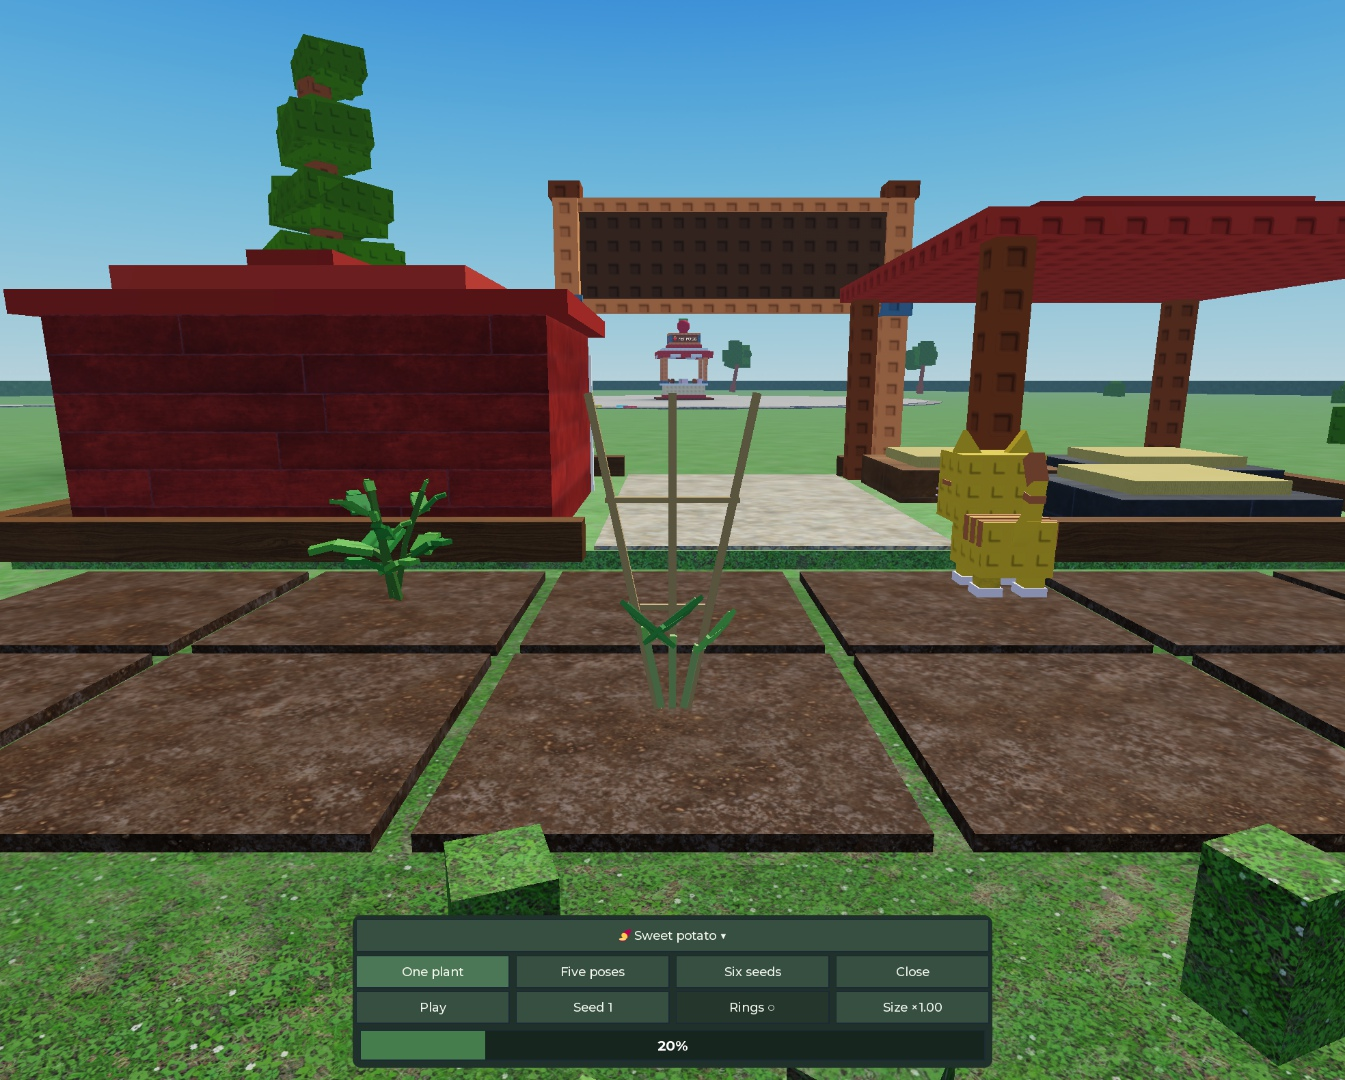
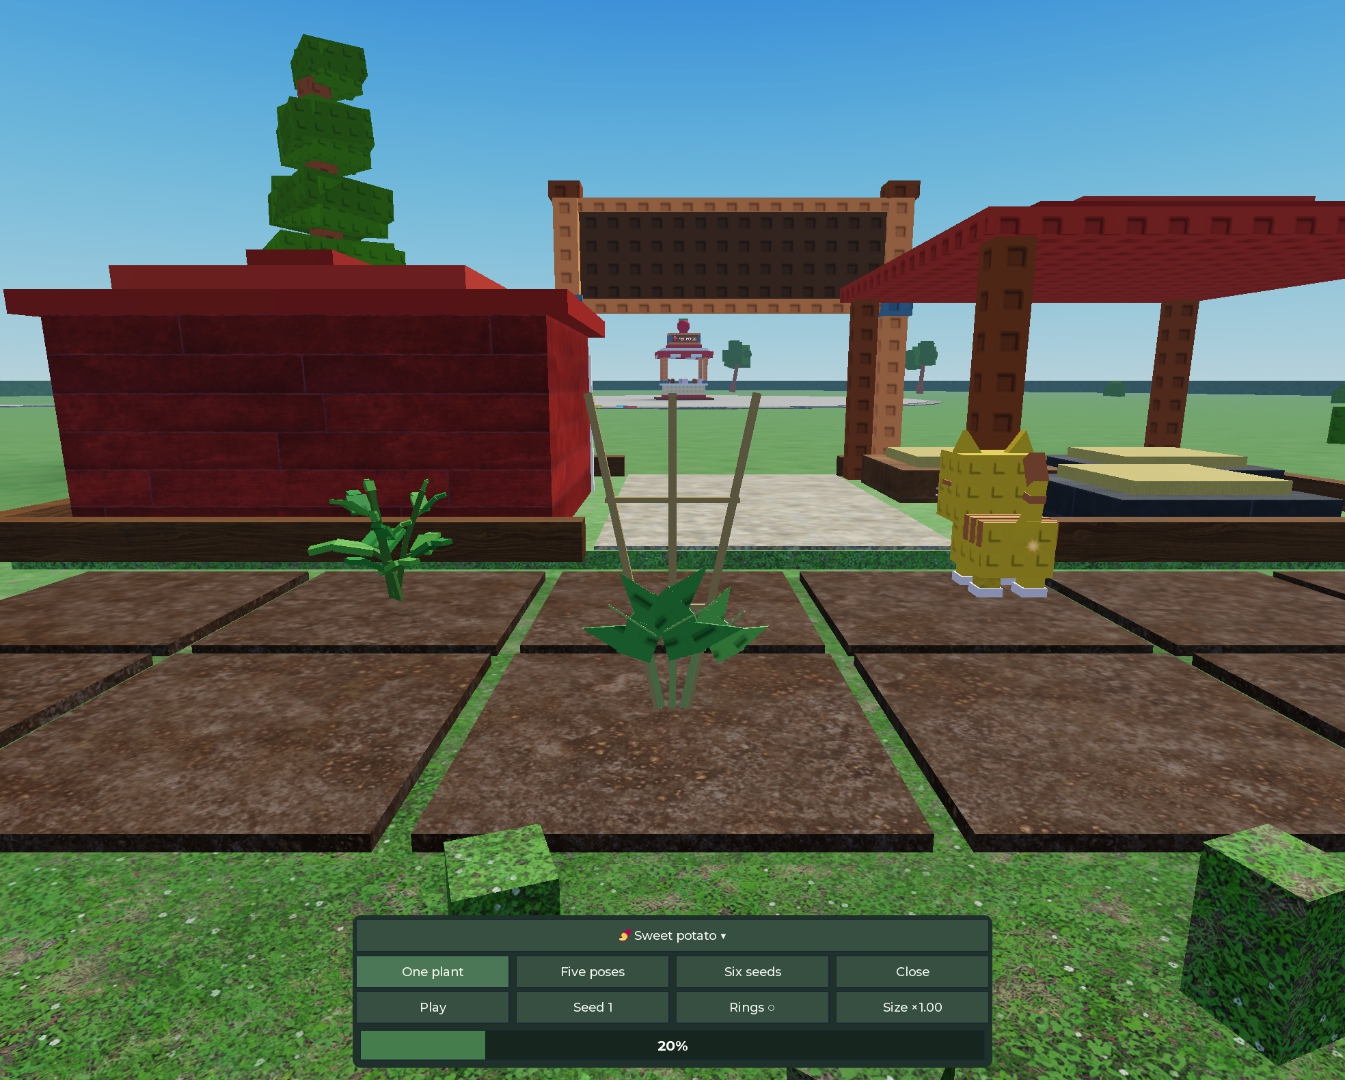
Fill sweet potato fan with broader staggered foliage

diff --git a/docs/plants/SWEET_POTATO.md b/docs/plants/SWEET_POTATO.md
@@ -5,6 +5,9 @@
 ## Selected mature silhouette
 
 Ales selected **C, the trained fan**, on 2026-11-12. Its continuous growth is built as a review-only draft, awaiting art approval.
+The first growth review was too bare (Ales, 2026-11-12). Foliage now has **18 leaves instead of 12**: broader blades face outward
+toward the field view, with two smaller staggered leaves between each vine's original nodes. The flowers, roots and fan silhouette
+stay readable. Original variation draws retain their order; the new leaf draws come after the existing vines, roots and flowers.
 
 Three static mature studies precede the continuous recipe, following the shared art review gates.
 The supplied references guide organ shapes and growth; their captions are reference material, not game requirements.
@@ -49,11 +52,11 @@ The static study runner is `tools/sweet_potato_ripe_studies.luau`; its disposabl
 [75%](../art/sweet-potato/growth-75.png) · [100%](../art/sweet-potato/growth-100.png).
 
 [`SweetPotatoPlant.luau`](../../src/ReplicatedStorage/SweetPotatoPlant.luau) uses `PlantKit.recipe` for construction, reversible
-posing, destruction and direct proxy generation. It reuses 133 Parts: five fixed supports, 12 stem segments, 72 leaf/stalk/vein
-pieces, three ties, 15 storage-root pieces and 26 flower pieces. A hypothetical full-detail 36-square field would use 4,788
-plant Parts before soil, pets and UI; this draft is **not registered in the field**. Proxy stages currently use 20 / 57 / 79 Parts.
+posing, destruction and direct proxy generation. It reuses 169 Parts: five fixed supports, 12 stem segments, 108 leaf/stalk/vein
+pieces, three ties, 15 storage-root pieces and 26 flower pieces. A hypothetical full-detail 36-square field would use 6,084
+plant Parts before soil, pets and UI; this draft is **not registered in the field**. Proxy stages currently use 20 / 75 / 97 Parts.
 
-Seed variation changes vine heights, lean, leaf angles/sizes and root proportions. Seed 1 retains the chosen C baseline.
+Seed variation changes vine heights, lean, leaf angles/sizes and root proportions. Seed 1 is the reproducible authored baseline.
 Storage roots scale by the cube root of the server's harvested mass, including Sorter; their centres move inward at large
 sizes. Foliage width is constrained, and rigid equipment does not scale with mass. Orientation and 5-stud ring height are fixed.
 The three roots have stable fruit-slot IDs, mature attachments and explicit five-Part groups; flowers remain separate accents.
@@ -66,9 +69,10 @@ when integration is approved. Harvest will continue to clear the entire square; 
 
 CG18b Studio checks (2026-11-12, `tools/sweet_potato_growth_checks.luau`) pass for six seeds, harvested mass 0.35656 / 1 / 3.02985,
 101 ages, attachments, fixed supports, root metadata, physics/input flags, direct proxies and backward seeks. Maximum corner
-radius is 2.181 studs, maximum all-age height 4.857 studs; the standard seed-1 mature baseline remains 4.609 studs tall with
-2.038-stud radius. Crop-picker selection, Play/Pause, rings/selection border and Close were exercised through the real reviewer UI;
-the field pet and soil were checked together. Server and client logs were clean, and the playtest was stopped.
+radius is 2.293 studs, maximum all-age height 5.253 studs; the revised standard seed-1 mature baseline is 4.929 studs tall with
+2.282-stud radius. Crop-picker selection and Play/Pause were checked in the original review; the revised foliage, rings/selection
+border and Close were checked in the real reviewer, with the field pet and soil together. Updated five stills use the same square,
+seed, mass and camera. Server and client logs were clean, and the playtest was stopped.
 Production lifecycle, field/24-plot performance, real phone and second client remain unvalidated.
 
 ## Static study validation

diff --git a/docs/ROADMAP.md b/docs/ROADMAP.md
@@ -168,8 +168,8 @@ player has the crop field, so the rest of the garden MVP (EXPANSION §14) is bui
   performance (4,824 plant Parts per full field), real phone, second client and live validation open.
 
 - **CG18:** [Sweet potato's C trained fan](plants/SWEET_POTATO.md) selected by Ales (2026-11-12). CG18b `PlantKit.recipe`
-  draft built (133 Parts): fixed support, successively extending vines, unfolding heart leaves, pale purple-throated flowers and
-  red root shoulders. Studio bounds/attachments/seeks/seeds/mass checks and reviewer controls pass; boot clean.
+  draft built (169 Parts): fixed support, successively extending vines, 18 broader outward-facing heart leaves (foliage revision
+  requested by Ales), pale purple-throated flowers and red root shoulders. Revised Studio geometry/reviewer checks pass; boot clean.
   [Five growth stills](art/sweet-potato/growth-review.png) await art approval. CG18c field integration and CG18d performance remain separate.
 
 Key talents as **world rewards**: done for Double Jump (K1, GDD §6). Open: Triple Jump / Dash for World 3. The lost Coin sinks are made up in

diff --git a/docs/PLANT_GROWTH.md b/docs/PLANT_GROWTH.md
@@ -21,7 +21,7 @@ selected silhouette, growth poses and geometry budget.
 | Pumpkin | [Arching vine, broad leaves, big ribbed orange fruit](plants/PUMPKIN.md) | 96 |
 | Eggplant | [Tall open plant with three long hanging purple fruit](plants/EGGPLANT.md) | 113 |
 | Blueberry | [Round highbush with ten berry bunches over the whole bush](plants/BLUEBERRY.md) | 134 |
-| Sweet potato | [Trained fan; growth art awaiting approval](plants/SWEET_POTATO.md) | 133 (draft) |
+| Sweet potato | [Trained fan; growth art awaiting approval](plants/SWEET_POTATO.md) | 169 (draft) |
 
 ## Studio growth player
 
